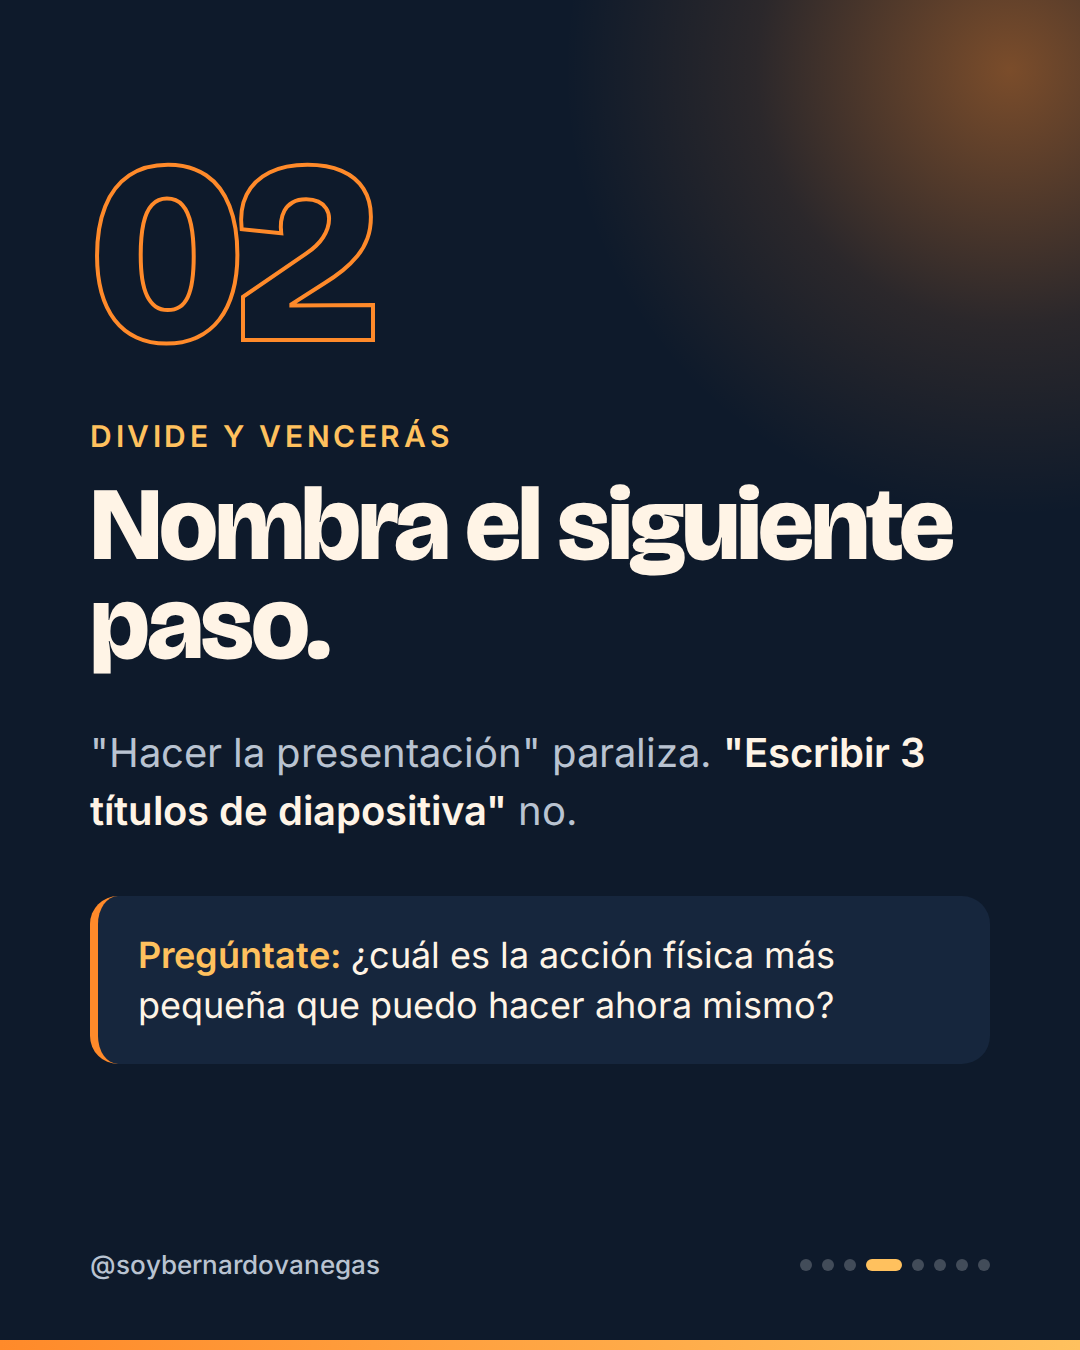
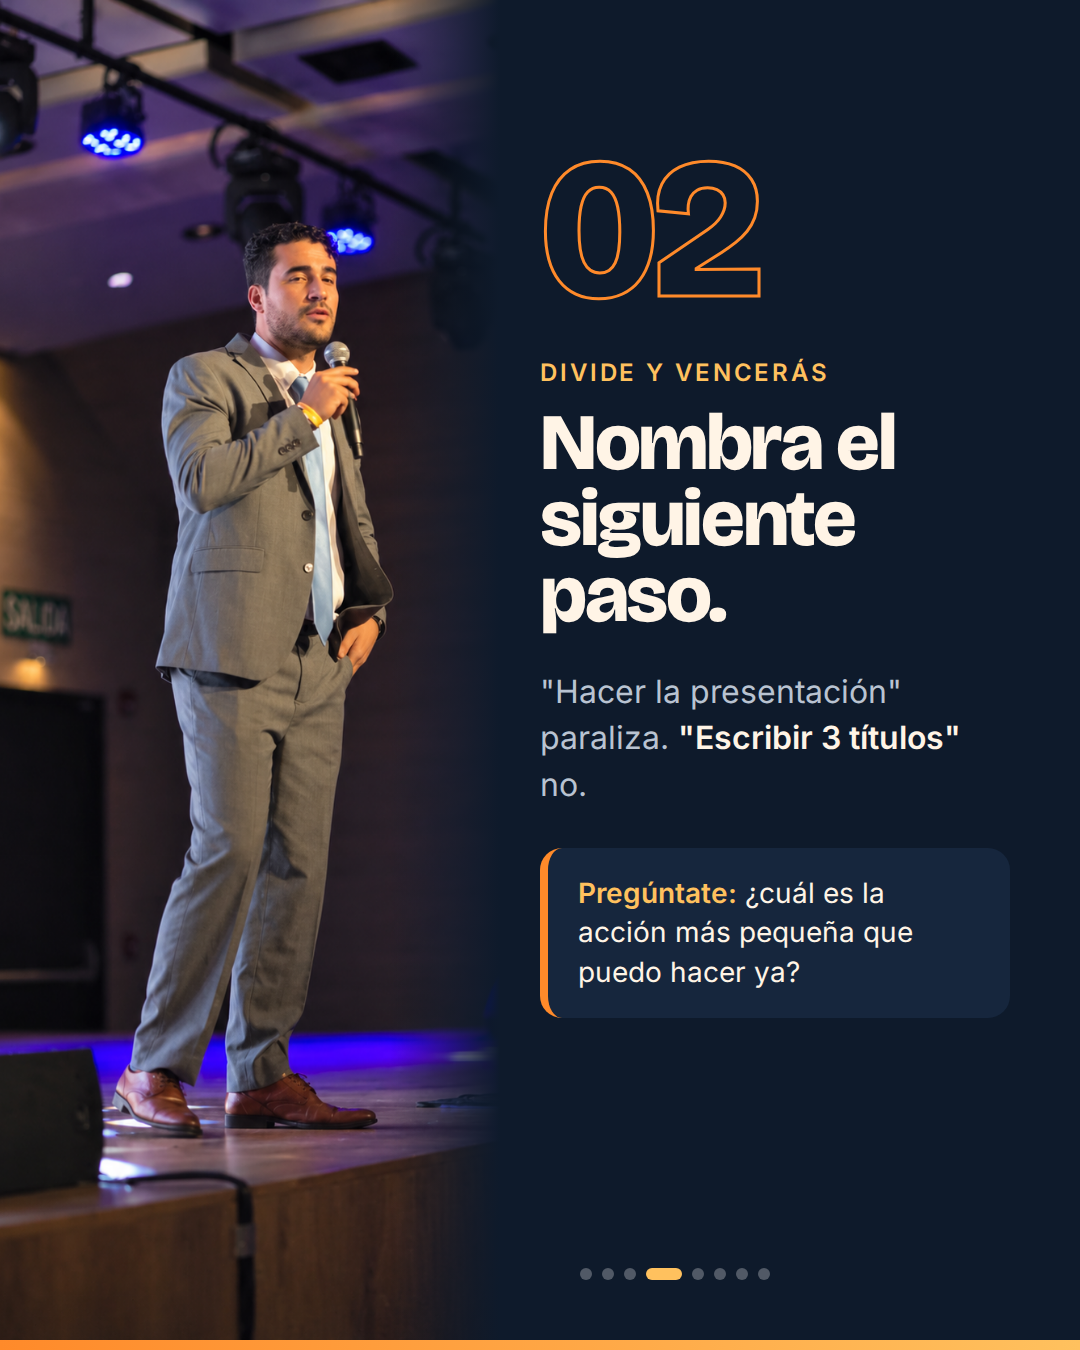
Use five photos in the carousel and keep text off the person
Cover and closing slides place text below the face; tips 1 and 2 use
split photo/text layouts (gym, stage); tip 5 shows the boat photo on
top, cropped below its original overlay text.

Claude-Session: https://claude.ai/code/session_01FUYq4DkYvC2CN9tUjxdYUD

diff --git a/carrusel-procrastinacion/carrusel.html b/carrusel-procrastinacion/carrusel.html
@@ -13,7 +13,6 @@
     --gold: #ffc15e;
     --cream: #fff4e6;
     --muted: #b9c3d1;
-    --handle: "@soybernardovanegas";
   }
   * { box-sizing: border-box; margin: 0; padding: 0; }
   body { background: #222; display: flex; flex-direction: column; gap: 40px; padding: 40px; align-items: center; }
@@ -24,50 +23,65 @@
     font-family: "Inter", sans-serif;
   }
   .display { font-family: "Bricolage Grotesque", sans-serif; font-weight: 800; letter-spacing: -0.03em; line-height: 0.95; }
+  .display em { font-style: normal; color: var(--gold); }
 
-  /* warm glow shared by the text slides */
+  /* warm glow + bottom bar shared by the text slides */
   .glow::before {
     content: ""; position: absolute; width: 900px; height: 900px; right: -380px; top: -380px;
     background: radial-gradient(circle, rgba(255,138,42,.45) 0%, rgba(255,138,42,.12) 40%, transparent 70%);
   }
-  .glow::after {
-    content: ""; position: absolute; inset: auto 0 0 0; height: 10px;
+  .bar::after {
+    content: ""; position: absolute; inset: auto 0 0 0; height: 10px; z-index: 3;
     background: linear-gradient(90deg, var(--sun), var(--gold));
   }
 
   .footer {
-    position: absolute; left: 90px; right: 90px; bottom: 70px;
+    position: absolute; left: 90px; right: 90px; bottom: 70px; z-index: 2;
     display: flex; justify-content: space-between; align-items: center;
     font-size: 26px; font-weight: 500; color: var(--muted);
   }
   .footer .dots { display: flex; gap: 10px; }
-  .footer .dots i { width: 12px; height: 12px; border-radius: 50%; background: rgba(255,255,255,.22); }
+  .footer .dots i { width: 12px; height: 12px; border-radius: 50%; background: rgba(255,255,255,.28); }
   .footer .dots i.on { background: var(--gold); width: 36px; border-radius: 6px; }
 
-  /* ---------- COVER ---------- */
-  .cover img { position: absolute; inset: 0; width: 100%; height: 100%; object-fit: cover; object-position: center 20%; }
-  .cover .shade {
+  /* photos */
+  .photo { position: absolute; overflow: hidden; }
+  .photo img { width: 100%; height: 100%; object-fit: cover; display: block; }
+
+  /* ---------- FULL-BLEED (cover + CTA): text only below the face ---------- */
+  .full .photo { inset: 0; }
+  .full .photo img { object-position: center bottom; }
+  .full .shade {
     position: absolute; inset: 0;
-    background: linear-gradient(180deg, rgba(14,26,43,0) 35%, rgba(14,26,43,.75) 60%, rgba(14,26,43,.97) 82%);
+    background: linear-gradient(180deg, rgba(14,26,43,0) 54%, rgba(14,26,43,.82) 66%, rgba(14,26,43,.96) 80%);
   }
-  .cover .content { position: absolute; left: 90px; right: 90px; bottom: 170px; }
+  .full .content { position: absolute; left: 90px; right: 90px; top: 890px; z-index: 1; }
+  .full .footer { color: var(--cream); }
   .tag {
-    display: inline-block; padding: 14px 26px; border-radius: 999px;
-    background: var(--sun); color: var(--navy); font-weight: 600; font-size: 28px; letter-spacing: .02em;
-    margin-bottom: 34px;
+    display: inline-block; padding: 12px 24px; border-radius: 999px;
+    background: var(--sun); color: var(--navy); font-weight: 600; font-size: 26px; letter-spacing: .02em;
+    margin-bottom: 26px;
   }
-  .cover h1 { font-size: 132px; }
-  .cover h1 em { font-style: normal; color: var(--gold); }
-  .cover p { margin-top: 30px; font-size: 38px; color: var(--cream); opacity: .9; font-weight: 500; }
+  .cover .content { top: 820px; }
+  .cover h1 { font-size: 104px; }
+  .cover p { margin-top: 24px; font-size: 34px; font-weight: 500; opacity: .92; }
   .swipe { color: var(--gold); font-weight: 600; }
 
-  /* ---------- TIP SLIDES ---------- */
+  .cta h2 { font-size: 84px; }
+  .cta .actions { margin-top: 34px; display: grid; gap: 16px; }
+  .cta .actions div { font-size: 32px; font-weight: 500; display: flex; gap: 20px; align-items: center; }
+  .cta .actions span {
+    flex: none; width: 52px; height: 52px; border-radius: 50%; display: grid; place-items: center;
+    background: var(--sun); color: var(--navy); font-weight: 700; font-size: 26px;
+  }
+
+  /* ---------- TEXT-ONLY TIP SLIDES ---------- */
   .tip .inner { position: absolute; left: 90px; right: 90px; top: 150px; z-index: 1; }
   .num { font-size: 260px; color: transparent; -webkit-text-stroke: 4px var(--sun); line-height: .8; }
   .kicker { margin-top: 60px; font-size: 30px; font-weight: 600; color: var(--gold); text-transform: uppercase; letter-spacing: .12em; }
   .tip h2 { margin-top: 22px; font-size: 104px; }
-  .tip .body { margin-top: 50px; font-size: 40px; line-height: 1.45; color: var(--muted); max-width: 860px; }
-  .tip .body b { color: var(--cream); font-weight: 600; }
+  .body { margin-top: 50px; font-size: 40px; line-height: 1.45; color: var(--muted); }
+  .body b { color: var(--cream); font-weight: 600; }
   .box {
     margin-top: 56px; padding: 34px 40px; border-radius: 28px;
     background: var(--navy-2); border-left: 8px solid var(--sun);
@@ -75,79 +89,86 @@
   }
   .box span { color: var(--gold); font-weight: 600; }
 
-  /* ---------- MYTH SLIDE ---------- */
-  .myth .inner { position: absolute; left: 90px; right: 90px; top: 190px; z-index: 1; }
-  .strike { font-size: 96px; color: var(--muted); text-decoration: line-through; text-decoration-color: var(--sun); text-decoration-thickness: 10px; }
-  .myth h2 { margin-top: 40px; font-size: 118px; }
-  .myth h2 em { font-style: normal; color: var(--gold); }
-  .myth .body { margin-top: 60px; font-size: 42px; line-height: 1.45; color: var(--muted); }
-  .myth .body b { color: var(--cream); font-weight: 600; }
+  /* ---------- SPLIT SLIDES: photo column + text column ---------- */
+  .split .photo { top: 0; bottom: 0; width: 500px; }
+  .split.photo-right .photo { right: 0; }
+  .split.photo-left .photo { left: 0; }
+  .split .photo::after { content: ""; position: absolute; inset: 0; }
+  .split.photo-right .photo::after { background: linear-gradient(90deg, var(--navy) 0%, rgba(14,26,43,0) 22%); }
+  .split.photo-left .photo::after { background: linear-gradient(270deg, var(--navy) 0%, rgba(14,26,43,0) 22%); }
+  .split .inner { position: absolute; top: 150px; width: 470px; z-index: 1; }
+  .split.photo-right .inner { left: 90px; }
+  .split.photo-left .inner { right: 70px; }
+  .split .num { font-size: 200px; -webkit-text-stroke-width: 3px; }
+  .split .kicker { margin-top: 48px; font-size: 24px; }
+  .split h2 { margin-top: 18px; font-size: 80px; }
+  .split .body { margin-top: 36px; font-size: 32px; }
+  .split .box { margin-top: 40px; padding: 26px 30px; font-size: 28px; border-radius: 22px; }
+  .split.photo-left .footer { left: 580px; right: 70px; }
+  .split.photo-left .footer > span:first-child { display: none; }
+  .split.photo-right .footer .dots { display: none; }
 
-  /* ---------- CTA ---------- */
-  .cta .photo { position: absolute; top: 0; left: 0; right: 0; height: 640px; }
-  .cta .photo img { width: 100%; height: 100%; object-fit: cover; object-position: center 30%; }
-  .cta .photo::after { content: ""; position: absolute; inset: 0; background: linear-gradient(180deg, rgba(14,26,43,0) 50%, var(--navy) 100%); }
-  .cta .inner { position: absolute; left: 90px; right: 90px; top: 600px; z-index: 1; }
-  .cta h2 { font-size: 100px; }
-  .cta h2 em { font-style: normal; color: var(--gold); }
-  .cta .actions { margin-top: 50px; display: grid; gap: 22px; }
-  .cta .actions div { font-size: 38px; font-weight: 500; display: flex; gap: 24px; align-items: center; }
-  .cta .actions span {
-    flex: none; width: 64px; height: 64px; border-radius: 50%; display: grid; place-items: center;
-    background: var(--sun); color: var(--navy); font-weight: 700; font-size: 30px;
-  }
+  /* ---------- PHOTO-TOP SLIDE ---------- */
+  .top .photo { top: 0; left: 0; right: 0; height: 700px; }
+  .top .photo::after { content: ""; position: absolute; inset: 0; background: linear-gradient(180deg, rgba(14,26,43,0) 72%, var(--navy) 100%); }
+  .top .inner { position: absolute; left: 90px; right: 90px; top: 730px; z-index: 1; }
+  .top .kicker { margin-top: 0; font-size: 26px; }
+  .top h2 { margin-top: 16px; font-size: 88px; }
+  .top .body { margin-top: 28px; font-size: 34px; }
 </style>
 </head>
 <body>
 
 <!-- 1. Cover -->
-<section class="slide cover" id="s1">
-  <img src="foto.png" alt="">
+<section class="slide full cover" id="s1">
+  <div class="photo"><img src="foto-atardecer-2.png" alt=""></div>
   <div class="shade"></div>
   <div class="content">
     <div class="tag">5 claves que sí funcionan</div>
-    <h1 class="display">Deja de<br><em>procrastinar</em><br>hoy.</h1>
+    <h1 class="display">Deja de<br><em>procrastinar</em> hoy.</h1>
     <p>No necesitas más motivación. <span class="swipe">Desliza →</span></p>
   </div>
-  <div class="footer" style="color:var(--cream)"><span>@soybernardovanegas</span><span class="dots"><i class="on"></i><i></i><i></i><i></i><i></i><i></i><i></i><i></i></span></div>
+  <div class="footer"><span>@soybernardovanegas</span><span class="dots"><i class="on"></i><i></i><i></i><i></i><i></i><i></i><i></i><i></i></span></div>
 </section>
 
 <!-- 2. Myth -->
-<section class="slide glow myth" id="s2">
-  <div class="inner">
-    <div class="strike display">Es pereza.</div>
-    <h2 class="display">Es una forma de <em>evitar</em> una emoción.</h2>
-    <p class="body">Aburrimiento, miedo a hacerlo mal, no saber por dónde empezar.<br><br><b>No te falta disciplina: la tarea se siente pesada.</b> Así que el truco es hacerla más ligera.</p>
+<section class="slide glow bar tip" id="s2">
+  <div class="inner" style="top:190px">
+    <div class="display" style="font-size:96px;color:var(--muted);text-decoration:line-through;text-decoration-color:var(--sun);text-decoration-thickness:10px">Es pereza.</div>
+    <h2 class="display" style="margin-top:40px;font-size:118px">Es una forma de <em>evitar</em> una emoción.</h2>
+    <p class="body" style="margin-top:60px;font-size:42px">Aburrimiento, miedo a hacerlo mal, no saber por dónde empezar.<br><br><b>No te falta disciplina: la tarea se siente pesada.</b> Así que el truco es hacerla más ligera.</p>
   </div>
   <div class="footer"><span>@soybernardovanegas</span><span class="dots"><i></i><i class="on"></i><i></i><i></i><i></i><i></i><i></i><i></i></span></div>
 </section>
 
-<!-- 3. Tip 1 -->
-<section class="slide glow tip" id="s3">
+<!-- 3. Tip 1 — gym photo on the right -->
+<section class="slide bar split photo-right" id="s3">
+  <div class="photo"><img src="foto-gym.png" alt="" style="object-position: 5% center"></div>
   <div class="inner">
     <div class="num display">01</div>
     <div class="kicker">Regla de los 2 minutos</div>
     <h2 class="display">Empieza con algo ridículo.</h2>
-    <p class="body">Comprométete solo a <b>2 minutos</b>. Abrir el documento. Escribir una frase. Ponerte los tenis.</p>
-    <div class="box"><span>Por qué funciona:</span> lo difícil es arrancar. Una vez en movimiento, seguir cuesta mucho menos.</div>
+    <p class="body">Comprométete solo a <b>2 minutos</b>. Abrir el documento. <b>Ponerte los tenis.</b></p>
+    <div class="box"><span>Lo difícil es arrancar.</span> Una vez en movimiento, seguir cuesta mucho menos.</div>
   </div>
   <div class="footer"><span>@soybernardovanegas</span><span class="dots"><i></i><i></i><i class="on"></i><i></i><i></i><i></i><i></i><i></i></span></div>
 </section>
 
-<!-- 4. Tip 2 -->
-<section class="slide glow tip" id="s4">
+<!-- 4. Tip 2 — stage photo on the left -->
+<section class="slide bar split photo-left" id="s4">
+  <div class="photo"><img src="foto-escenario.png" alt="" style="object-position: 20% center"></div>
   <div class="inner">
     <div class="num display">02</div>
     <div class="kicker">Divide y vencerás</div>
     <h2 class="display">Nombra el siguiente paso.</h2>
-    <p class="body">"Hacer la presentación" paraliza. <b>"Escribir 3 títulos de diapositiva"</b> no.</p>
-    <div class="box"><span>Pregúntate:</span> ¿cuál es la acción física más pequeña que puedo hacer ahora mismo?</div>
+    <p class="body">"Hacer la presentación" paraliza. <b>"Escribir 3 títulos"</b> no.</p>
+    <div class="box"><span>Pregúntate:</span> ¿cuál es la acción más pequeña que puedo hacer ya?</div>
   </div>
   <div class="footer"><span>@soybernardovanegas</span><span class="dots"><i></i><i></i><i></i><i class="on"></i><i></i><i></i><i></i><i></i></span></div>
 </section>
 
 <!-- 5. Tip 3 -->
-<section class="slide glow tip" id="s5">
+<section class="slide glow bar tip" id="s5">
   <div class="inner">
     <div class="num display">03</div>
     <div class="kicker">Diseña tu entorno</div>
@@ -159,7 +180,7 @@
 </section>
 
 <!-- 6. Tip 4 -->
-<section class="slide glow tip" id="s6">
+<section class="slide glow bar tip" id="s6">
   <div class="inner">
     <div class="num display">04</div>
     <div class="kicker">Bloques de enfoque</div>
@@ -170,22 +191,22 @@
   <div class="footer"><span>@soybernardovanegas</span><span class="dots"><i></i><i></i><i></i><i></i><i></i><i class="on"></i><i></i><i></i></span></div>
 </section>
 
-<!-- 7. Tip 5 -->
-<section class="slide glow tip" id="s7">
+<!-- 7. Tip 5 — boat photo on top (cropped below the photo's own text) -->
+<section class="slide bar top" id="s7">
+  <div class="photo"><img src="foto-barco.png" alt="" style="object-position: center 33%"></div>
   <div class="inner">
-    <div class="num display">05</div>
-    <div class="kicker">Suelta el perfeccionismo</div>
-    <h2 class="display">Hecho es mejor que perfecto.</h2>
-    <p class="body">Muchas veces no procrastinamos por flojera, sino por <b>miedo a que no quede bien.</b></p>
-    <div class="box"><span>Date permiso</span> de hacer una primera versión mala. Mejorar algo es mucho más fácil que crearlo.</div>
+    <div class="kicker">05 · Suelta el perfeccionismo</div>
+    <h2 class="display">Hecho es mejor que <em>perfecto.</em></h2>
+    <p class="body">No procrastinamos por flojera, sino por <b>miedo a que no quede bien.</b> Date permiso de hacer una primera versión mala.</p>
   </div>
   <div class="footer"><span>@soybernardovanegas</span><span class="dots"><i></i><i></i><i></i><i></i><i></i><i></i><i class="on"></i><i></i></span></div>
 </section>
 
 <!-- 8. CTA -->
-<section class="slide glow cta" id="s8">
-  <div class="photo"><img src="foto.png" alt=""></div>
-  <div class="inner">
+<section class="slide full cta" id="s8">
+  <div class="photo"><img src="foto-atardecer-1.png" alt=""></div>
+  <div class="shade"></div>
+  <div class="content">
     <h2 class="display">¿Cuál vas a aplicar <em>hoy?</em></h2>
     <div class="actions">
       <div><span>1</span>Guarda este post para cuando lo necesites</div>
